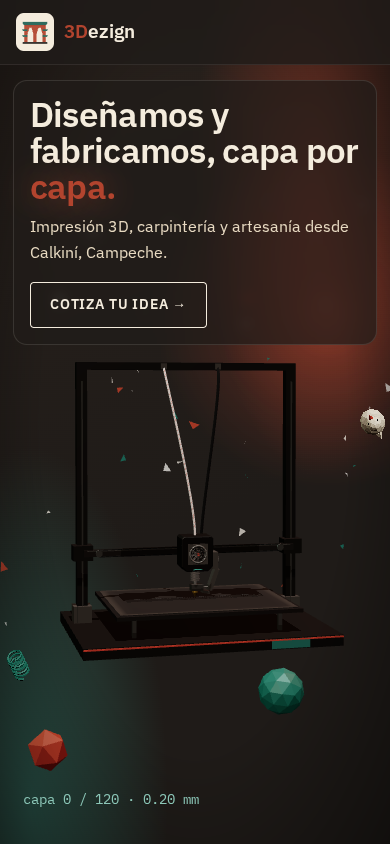
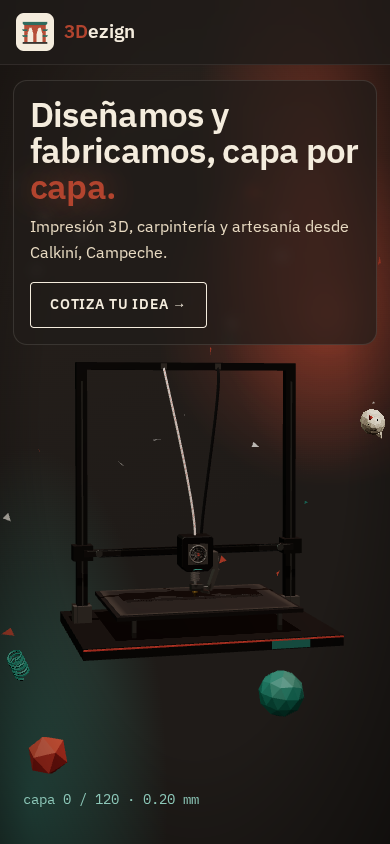
Flotantes evitan columnas del despiece (.dcol) + floatqa; configure-pages@v5

diff --git a/src/main.js b/src/main.js
@@ -80,7 +80,7 @@ document.querySelector('form').addEventListener('submit', e => {
   e.preventDefault(); document.querySelector('.aviso').textContent = c.contacto.avisoForm;
 });
 
-const floaters = createFloaters(document.querySelector('#floaters'), { reduced, avoid: '.progress, .hero-copy, .hero-final, .s h2, .s .lead, .eyebrow, .card, .mono, .pending, .bloque, .cierre, .despiece, form, .canales, .split img' });
+const floaters = createFloaters(document.querySelector('#floaters'), { reduced, avoid: '.progress, .hero-copy, .hero-final, .s h2, .s .lead, .eyebrow, .card, .mono, .pending, .bloque, .cierre, .despiece, .dcol, form, .canales, .split img' });
 const scene = createScene(document.querySelector('#scene'), { reduced });
 const desp = createDespiece(document.querySelector('#despiece'), { reduced });
 // celular: el texto va arriba y abajo del escenario fijado (sin tapar el modelo); escritorio: a los costados
@@ -142,7 +142,7 @@ if (reduced) {
   // despiece: el escenario se fija 3 pantallas con scrub; el enlace del menú lleva al inicio de la sección
   const dst = ScrollTrigger.create({ trigger: '#personalizado .despiece', start: 'top top', end: () => '+=' + innerHeight * 3, pin: true, pinSpacing: true, scrub: 0.5, onUpdate: s => { desp.setProgress(s.progress); revealD(s.progress); }, onRefresh: s => { desp.setProgress(s.progress); revealD(s.progress); } });
   pins.personalizado = ScrollTrigger.create({ trigger: '#personalizado', start: 'top top', end: 'top top' });
-  window.__despiece = dst; window.__desp = desp;
+  window.__despiece = dst; window.__desp = desp; window.__floaters = floaters;
   mqD.addEventListener('change', () => { placeDCols(); revealD(dst.progress); ScrollTrigger.refresh(); });
   };
   // orden DOM: impresion → despiece → resto (ScrollTrigger calcula los pines en orden de creación)

diff --git a/src/floaters.js b/src/floaters.js
@@ -168,5 +168,7 @@ export function createFloaters(canvas, { reduced, avoid = '' }) {
     renderer.render(scene, camera); addEventListener('resize', () => renderer.render(scene, camera));
     return { setProgress() {}, tick() {} };
   }
-  return { setProgress(v) { p = v; }, tick(t) { render(p, t); } };
+  // QA: círculos en pantalla de los objetos visibles (centro y radio aproximado en px)
+  const debugRects = () => objs.filter(o => o.visible && o.userData.a > 0.05).map(o => { v.copy(o.position).project(camera); const [, hh] = halfAt(o.userData.z), rad = o.userData.base * 0.5 / hh * H / 2; return { x: (v.x + 1) / 2 * W, y: (1 - v.y) / 2 * H, rad, sec: o.userData.sec, lane: !!o.userData.lane, a: +o.userData.a.toFixed(2) }; });
+  return { setProgress(v) { p = v; }, tick(t) { render(p, t); }, debugRects };
 }
